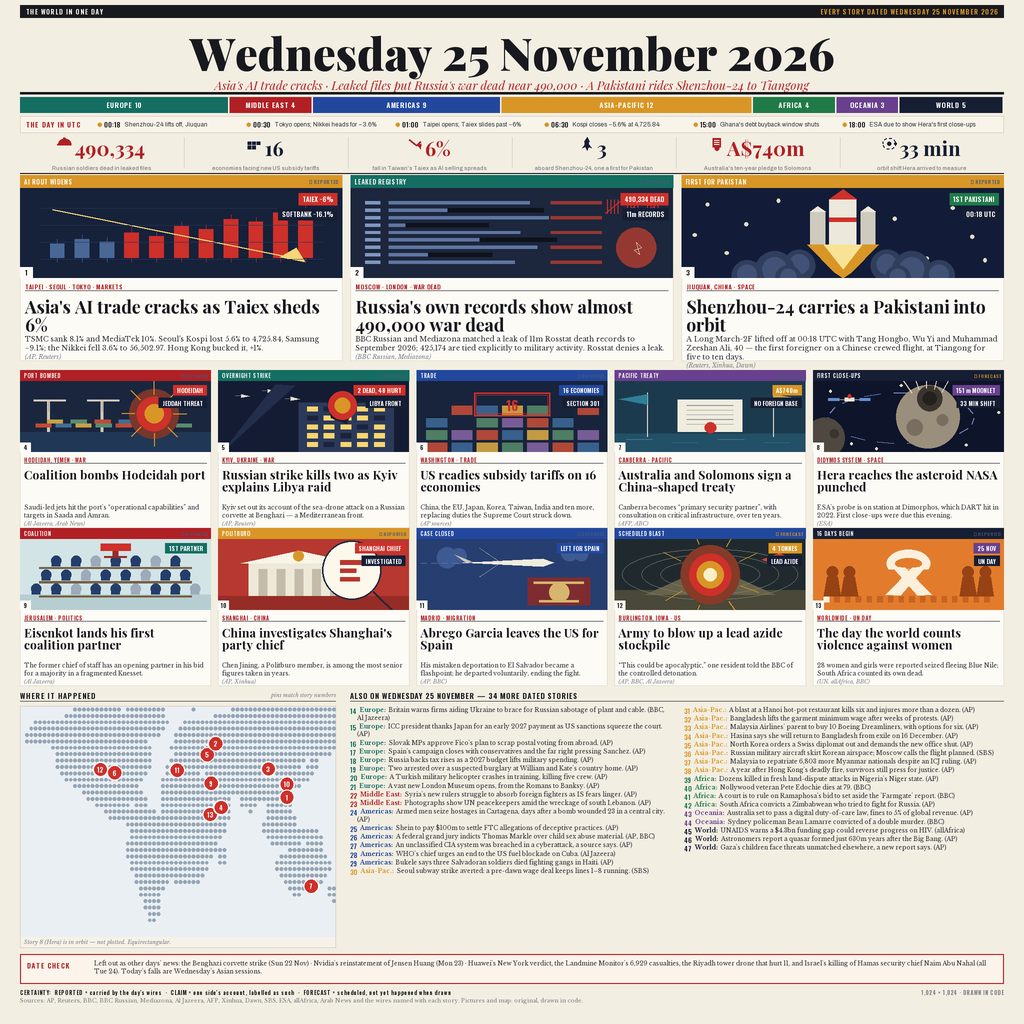
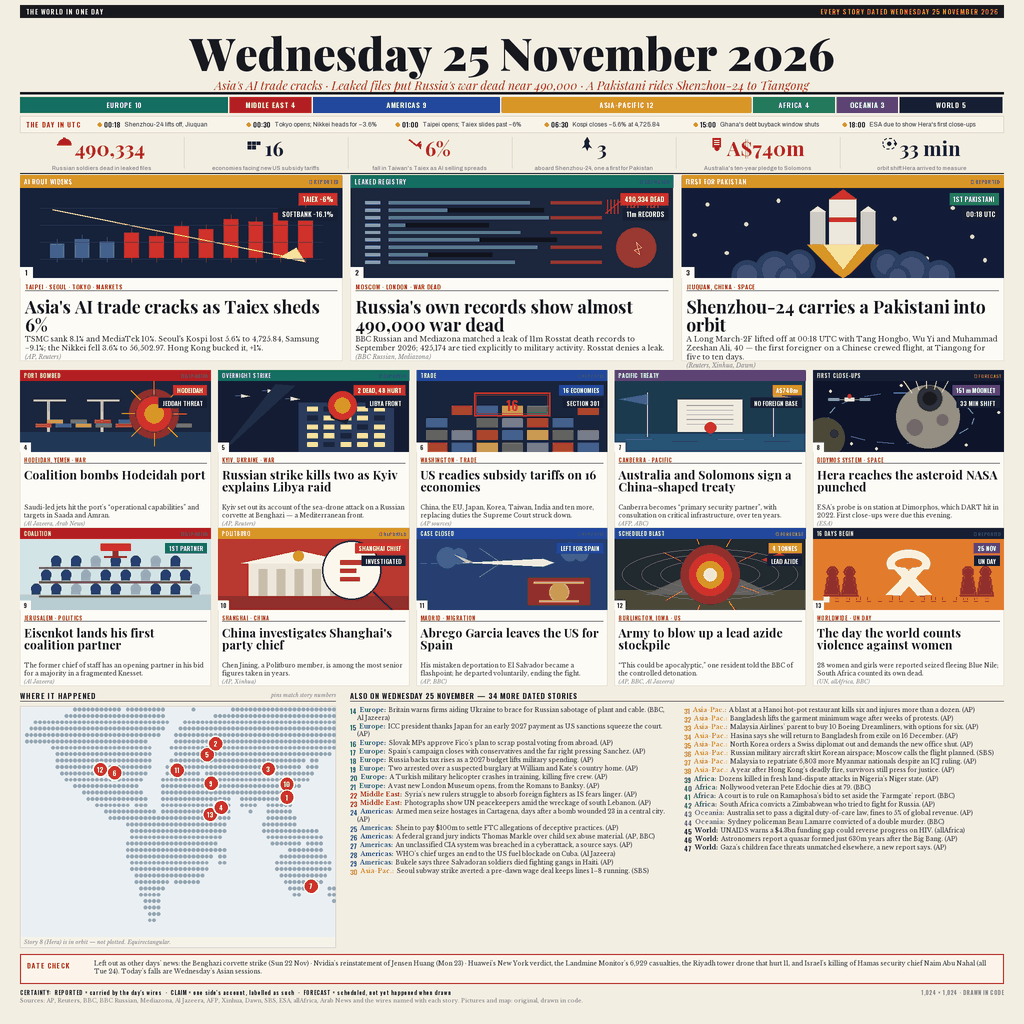
Write the sheet as a 256-colour palette PNG
The board breaks a tie on judge win rate in favour of the smaller entry,
and at 673,785 bytes this sheet was three times the size of its rivals.

The page is flat vector art: 29,246 distinct colours, nearly all of them
the soft edges Lanczos leaves behind rather than real inks. A 256-colour
palette holds it at 203,053 bytes, a 70% cut, for a mean per-pixel
difference of 1.2/255. Nothing bands and 6 pt type stays clean. Dithering
is off: with this few inks it only adds noise for the encoder to carry.

Still deterministic: two runs write identical bytes.

diff --git a/tools/render.py b/tools/render.py
@@ -1478,14 +1478,22 @@ def main():
     big = build()
     img = big.resize((W, H), Image.LANCZOS)
 
+    # The sheet is flat vector art: a handful of inks, plus the soft edges
+    # Lanczos leaves behind.  A 256-colour palette holds all of it, and the
+    # file lands about a third of the size -- which matters, because the
+    # board breaks a tie on judge win rate in favour of the smaller entry.
+    # Dithering is off: with this few distinct inks there is nothing to
+    # dither, and it would only add noise for the encoder to carry.
+    rgb = img.convert("RGB")
+    img = rgb.quantize(colors=256, method=Image.MEDIANCUT, dither=Image.NONE)
     img.save(out, "PNG", optimize=True)
 
-    # Stay under the 1 MiB ceiling; palette-reduce only if we must.
+    # Stay under the 1 MiB ceiling; cut the palette further only if we must.
     limit = 1024 * 1024
     if os.path.getsize(out) > limit:
-        for colors in (256, 192, 128):
-            q = img.convert("RGB").quantize(colors=colors, method=Image.MEDIANCUT,
-                                            dither=Image.NONE)
+        for colors in (192, 128, 64):
+            q = rgb.quantize(colors=colors, method=Image.MEDIANCUT,
+                             dither=Image.NONE)
             q.save(out, "PNG", optimize=True)
             if os.path.getsize(out) <= limit:
                 break

diff --git a/README.md b/README.md
@@ -79,13 +79,22 @@ is no clock read, no RNG and no dependence on dict iteration order, in either
 ```
 $ MAKEFUN_OUTPUT_DIR=run1 python main.py && MAKEFUN_OUTPUT_DIR=run2 python main.py
 $ md5sum run1/entry.png run2/entry.png
-f083ea825628ab5f63d77e4abed3460e  run1/entry.png
-f083ea825628ab5f63d77e4abed3460e  run2/entry.png
+65bb7ead89169eff011951d4e9eee886  run1/entry.png
+65bb7ead89169eff011951d4e9eee886  run2/entry.png
 ```
 
 **Rendering.** The sheet is composed at 2× (2048 px) and resampled to
 1024 × 1024 with Lanczos, which keeps 6 pt type legible and hairline rules
-even. Output is 673,785 bytes, under the 1 MiB cap.
+even.
+
+**Size.** The page is flat vector art — a few dozen inks, plus the soft edges
+Lanczos leaves behind — so it is written as a 256-colour palette PNG rather
+than truecolour. That is 203,053 bytes instead of 673,785, a 70% cut, for a
+mean per-pixel difference of 1.2/255 and no visible change: nothing bands,
+and 6 pt type stays clean. Dithering is off, because with this few distinct
+inks it only adds noise for the encoder to carry. Under the 1 MiB cap with
+room to spare; if a future draft ever exceeded it, the palette steps down to
+192, 128 then 64 colours.
 
 **Layout.** Section tops are fixed constants (`Y_MAST` … `Y_FOOT`) rather than
 an accumulating cursor, so one overlong headline cannot cascade into the block
